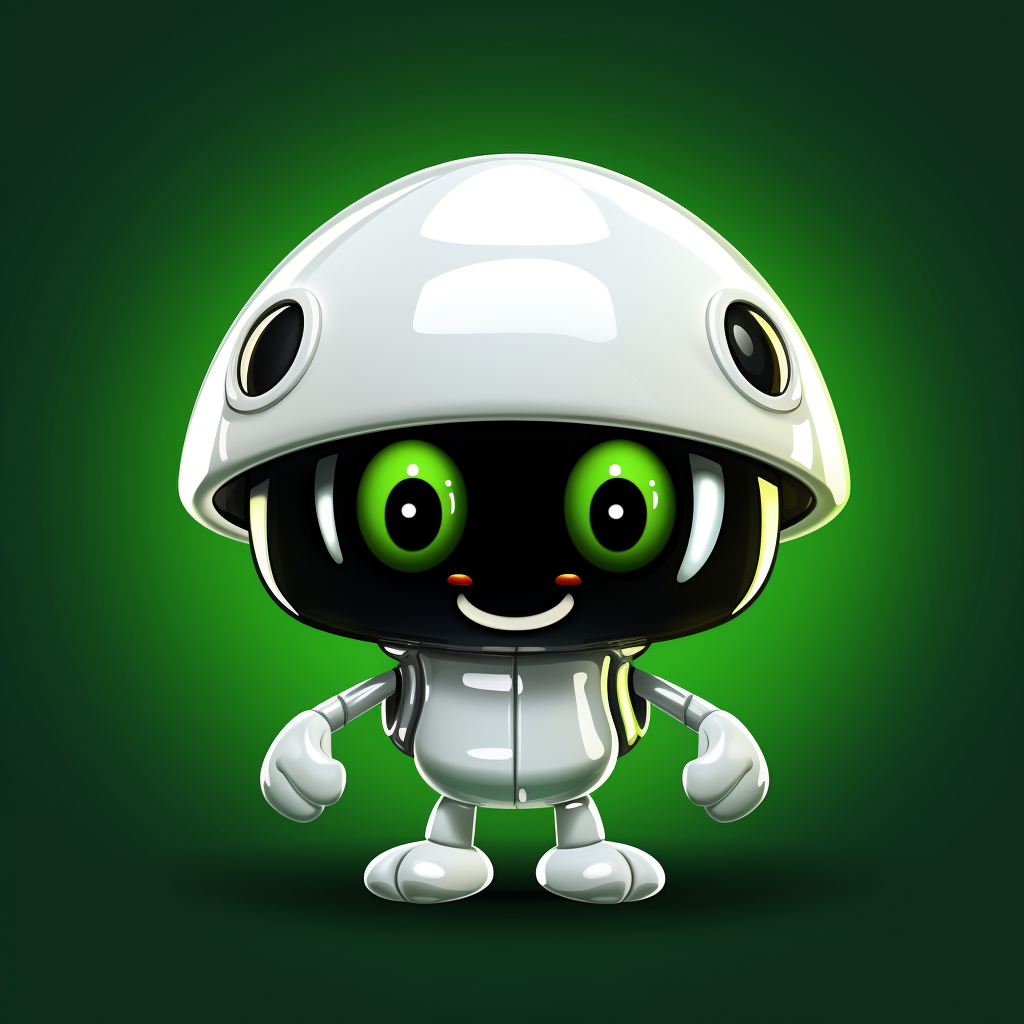
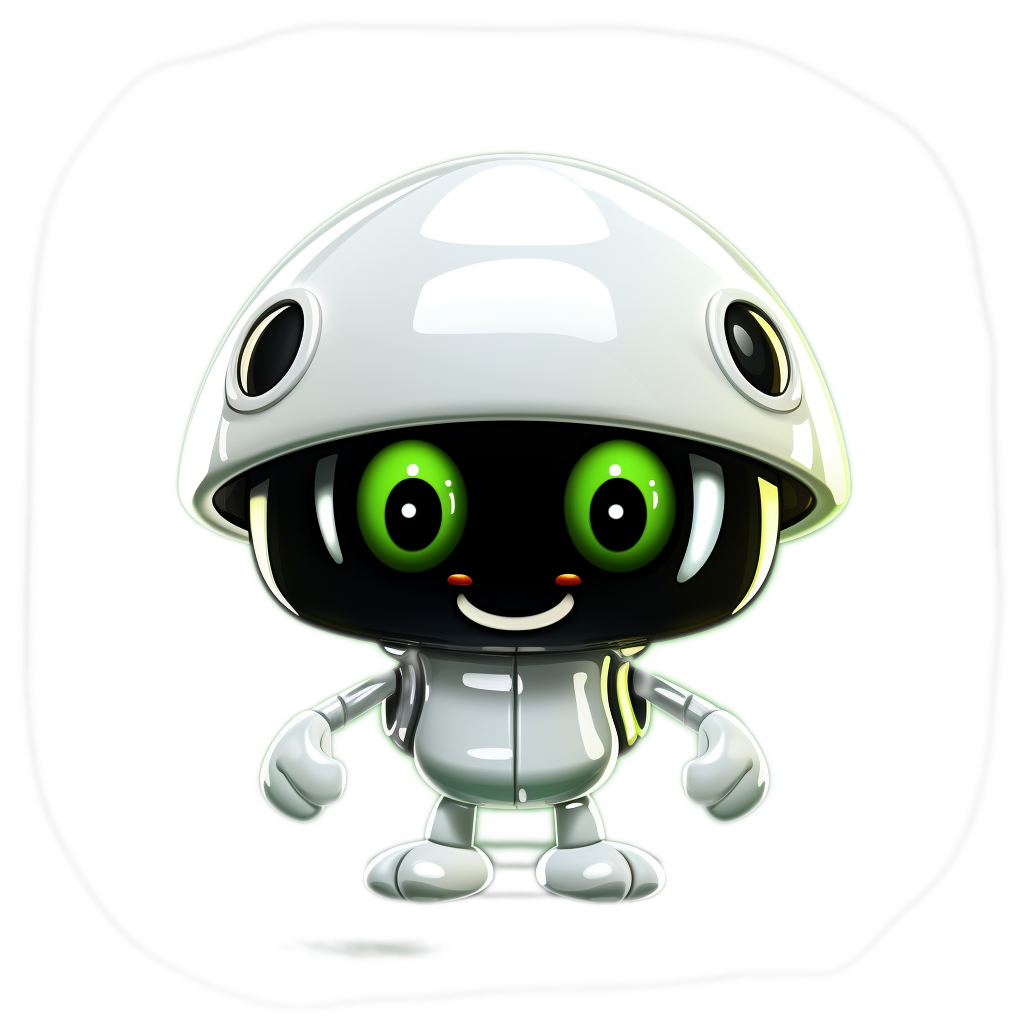
edited photos and changed info li color

diff --git a/client/src/index.css b/client/src/index.css
@@ -95,12 +95,12 @@ body {
   flex-direction: column;
   justify-content: center;
   align-items: center;
-  
+  background-color: #121212;
   width: 100%;
 }
 
 body {
-  background: black;
+  background: white;
   font-family: Verdana, Geneva, Tahoma, sans-serif;
 }
 
@@ -314,7 +314,7 @@ span a {
 
 .landing-page{
   width: 100vw;
-  background: #000;
+  background-color: black;
   color: white;
   display: flex;
   flex-direction: column;
@@ -420,7 +420,7 @@ span a {
   margin-bottom: 2rem;
   display: flex;
   font-weight: 300;
-  background-color: #3C9671;
+  background-color: #3a3b3a;
   padding: 1.5rem;
   border-bottom-left-radius: 35px;
   border-top-right-radius: 35px;
@@ -441,7 +441,7 @@ span a {
   list-style: none;
   font-size: 1rem;
   font-family: 'Inter', sans-serif;
-  background-color: #3C9671;
+  background-color: #3a3b3a;
   padding: 1.5rem;
   border-bottom-left-radius: 35px;
   border-top-right-radius: 35px;
@@ -454,9 +454,10 @@ span a {
   margin-left: auto;
   margin-right: auto;
   margin-bottom: 2rem;
-  display: flex;
-  font-weight: 300;
   padding: 1.5rem;
+  background-color: rgba(58, 59, 58, .5);
+  border-bottom-left-radius: 35px;
+  border-top-right-radius: 35px;
 }
 
 .button-div{

diff --git a/client/src/pages/LandingPage.jsx b/client/src/pages/LandingPage.jsx
@@ -3,7 +3,7 @@ import { useNavigate } from "react-router-dom";
 import greenMushroom from '../images/green-mushroom.png';
 import login from '../images/user.svg';
 import signup from '../images/user-plus.svg';
-import mushroomChar from '../images/mushroom-char-2.png';
+import mushroomChar from '../images/mushroom-char-1.png';
 import mushroomChar2 from '../images/mushroom-char-3.png';
 import mushroomGroup from '../images/mushroom-group.png';
 import menu from '../images/menu.svg';
